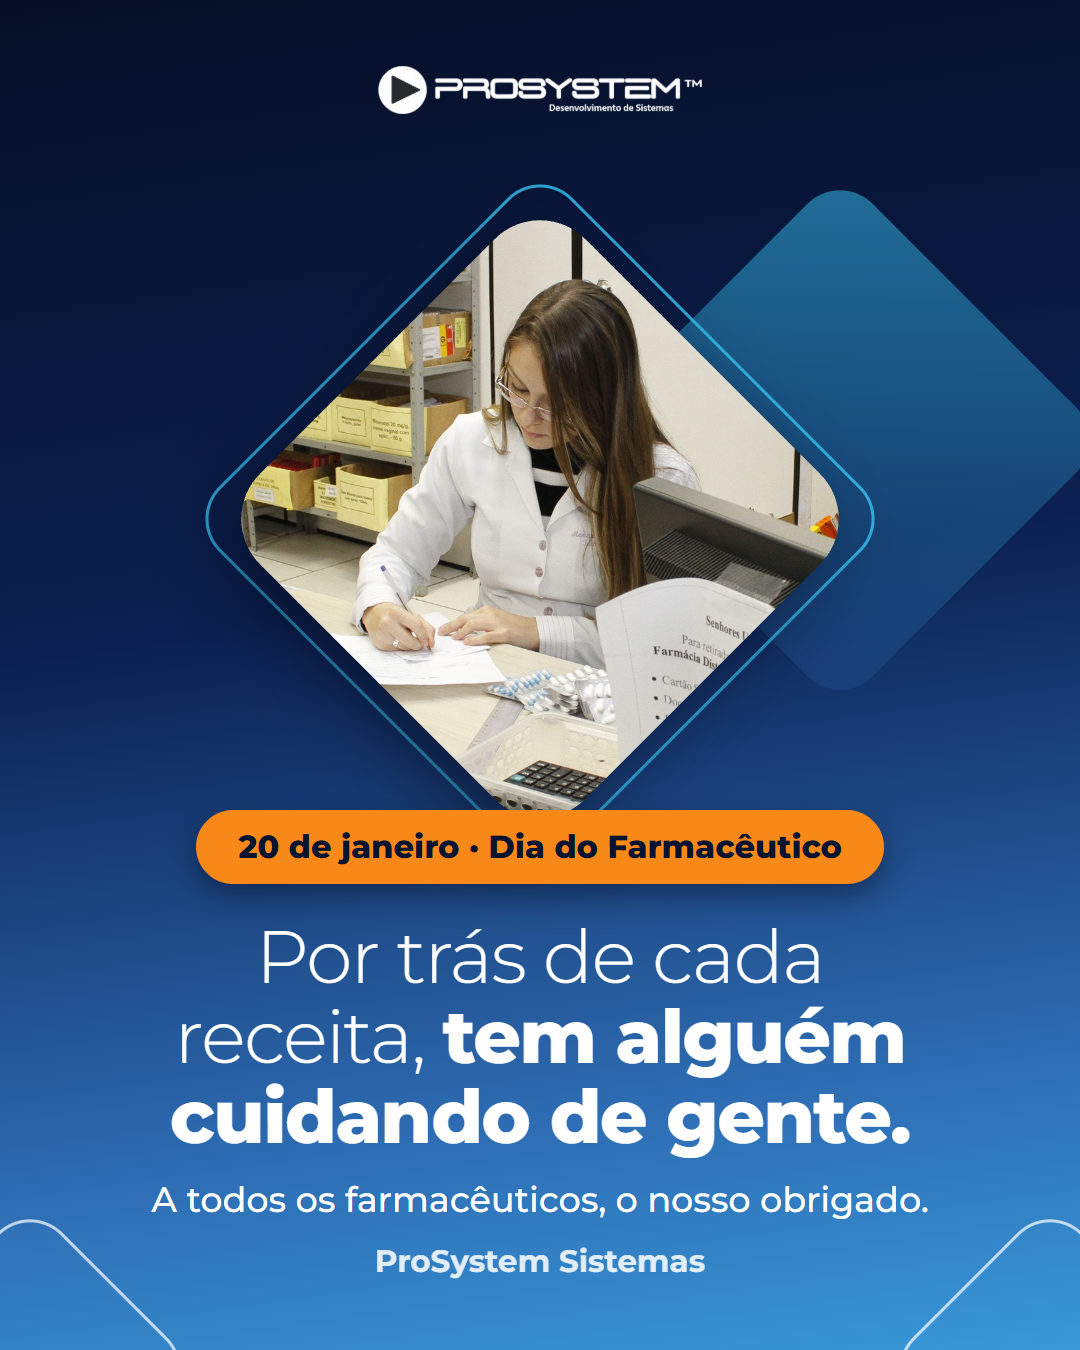
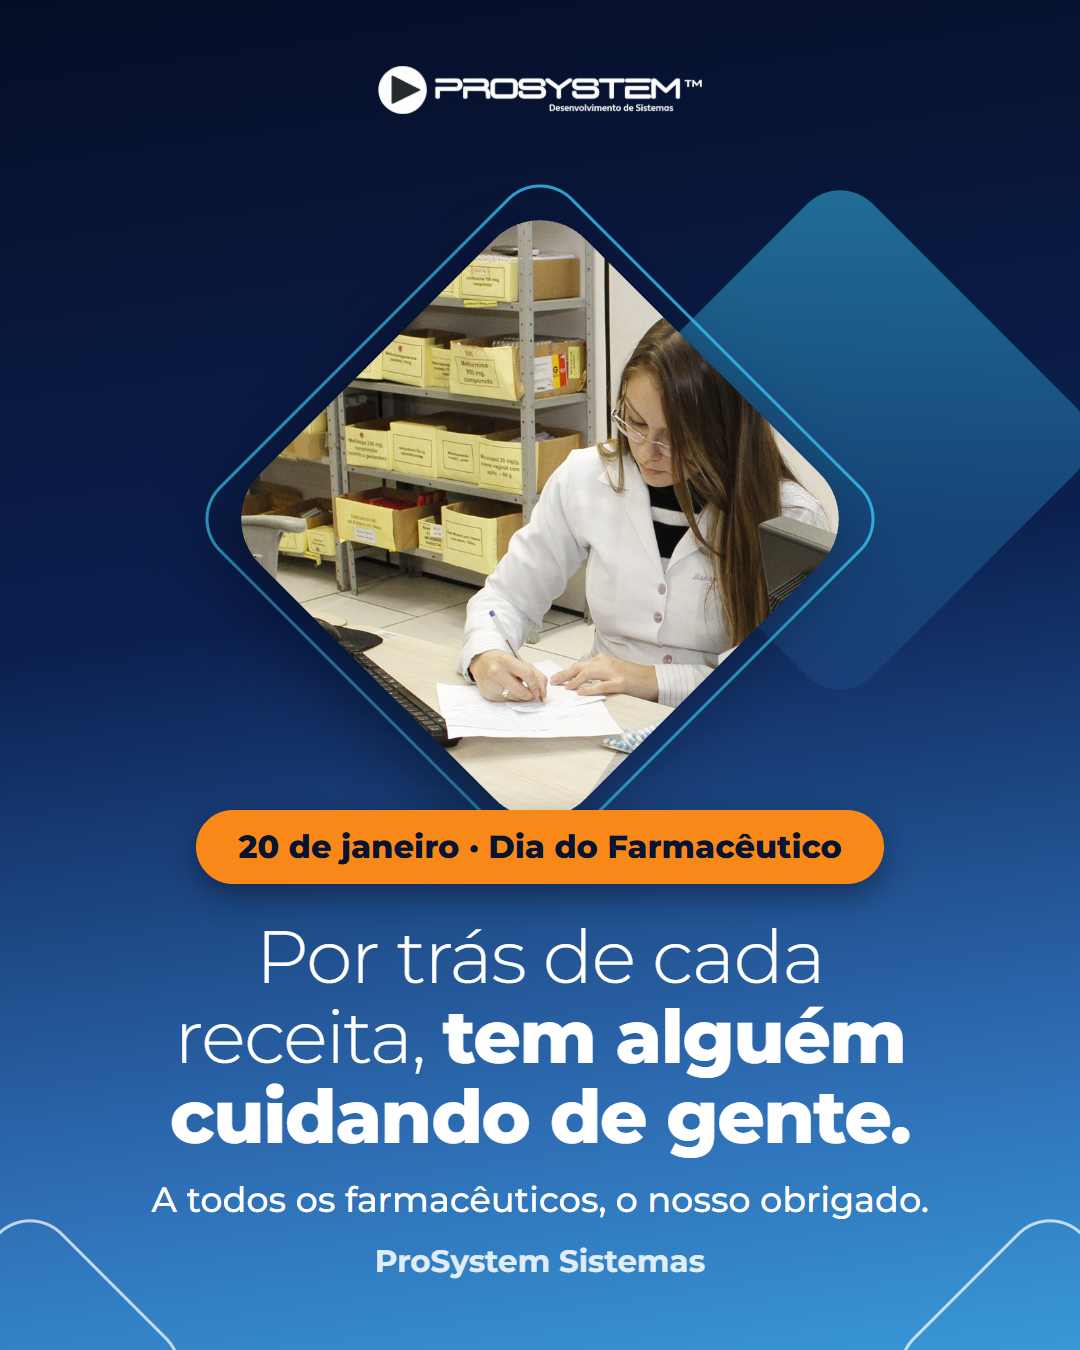
Peça do Janeiro Roxo (31/01) aprovada com o laço roxo: peça travada

Changed region(s): [[0.2139, 0.1556, 0.7944, 0.6222]]

diff --git a/outputs/criativos/nov-dez/pecas-dados.js b/outputs/criativos/nov-dez/pecas-dados.js
@@ -376,7 +376,7 @@ ${CTA}`,
   conferir: ['Produto: a Atenção farmacêutica segue como na base?', 'A tela foi recortada sem nome, foto e contato do paciente da ficha de exemplo. Use o recorte no mockup, porque o original mostra uma foto com direito de uso não confirmado.'] },
 
 { data: 'Qua 20/01', seg: 'Farmácia', id: 'farmacia-dia-do-farmaceutico-v2', tipo: 'homenagem', tema: 'azul', formato: 'Homenagem', nova: true, semAno: true, fs: 74,
-  foto: 'farmaceutica-receita', yLos: 289, posicao: '50% 45%', pilula: '20 de janeiro · Dia do Farmacêutico',
+  foto: 'farmaceutica-receita', yLos: 289, posicao: '55% 40%', pilula: '20 de janeiro · Dia do Farmacêutico',
   titulo: 'Por trás de cada receita, <b>tem alguém cuidando de gente.</b>', apoio: 'A todos os farmacêuticos, o nosso obrigado.',
   kw: 'Dia do Farmacêutico',
   cap: 'Dia do Farmacêutico: por trás de cada receita, tem alguém cuidando de gente.\n\nÉ quem confere a receita, explica como tomar, tira a dúvida no balcão e atende com calma mesmo com fila. Muitas vezes, é o primeiro profissional de saúde que a pessoa procura.\n\nA todos os farmacêuticos, e em especial aos que estão com a gente no dia a dia, o nosso obrigado.\n\nMarque um farmacêutico que merece ler isso.',
@@ -432,7 +432,7 @@ ${CTA}`,
   alts: ['Panetone cortado, com uma fatia saindo, em frente a uma árvore de Natal iluminada, com o texto: Dia de Reis, a festa acabou, e o panetone que sobrou?'],
   conferir: ['Produto: o relatório de dias sem giro vale sem ajuste na padaria?'] },
 
-{ data: 'Dom 31/01', seg: 'Farmácia', id: 'frase-janeiro-roxo-v2', tipo: 'frase', tema: 'azul', formato: 'Frase de impacto', nova: true, semAno: true, fs: 92, laco: 'roxo',
+{ data: 'Dom 31/01', seg: 'Farmácia', id: 'frase-janeiro-roxo-v2', travada: true, tipo: 'frase', tema: 'azul', formato: 'Frase de impacto', nova: true, semAno: true, fs: 92, laco: 'roxo',
   titulo: 'Janeiro Roxo: <b>hanseníase tem cura e tratamento pelo SUS.</b>', apoio: 'Informar também é cuidar.',
   kw: '',
   cap: 'Hoje é o Dia Nacional de Combate e Prevenção da Hanseníase, e o Janeiro Roxo lembra que informação ajuda a acabar com o preconceito.\n\nA hanseníase tem cura, e o tratamento é gratuito pelo SUS. Na dúvida, oriente o cliente a procurar a unidade básica de saúde.\n\nCompartilhe esta informação.',

diff --git a/docs/contexto/relatorios/2026-11-03-laco-janeiro-roxo.md b/docs/contexto/relatorios/2026-11-03-laco-janeiro-roxo.md
@@ -16,4 +16,7 @@ Jessica, com print da peça `frase-janeiro-roxo-v2`: "coloque o simbolo oficial 
 - Símbolo usado: o laço roxo, que identifica o Janeiro Roxo. Sem logomarca de órgão ou instituição (marca de terceiro).
 
 ## Pendente
-- Aprovação da Jessica. Depois de aprovada, marcar `travada: true` na peça.
+- ~~Aprovação do laço~~: aprovado pela Jessica em 03/11/2026; peça travada (`travada: true`).
+
+## Próxima sessão
+Peça aprovada e travada: não gerar de novo. Para mudar, a Jessica precisa pedir e tirar `travada: true` em `pecas-dados.js`.
